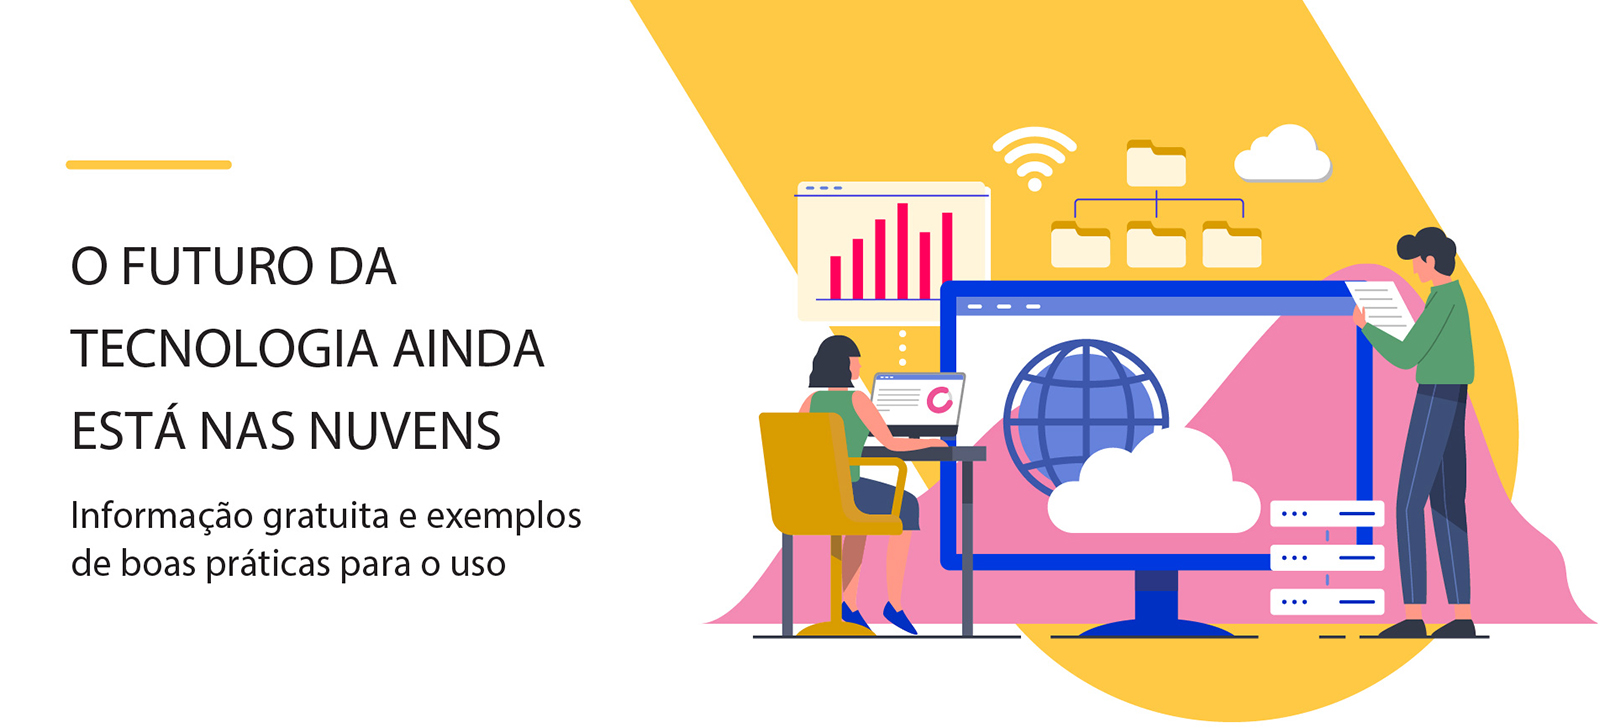
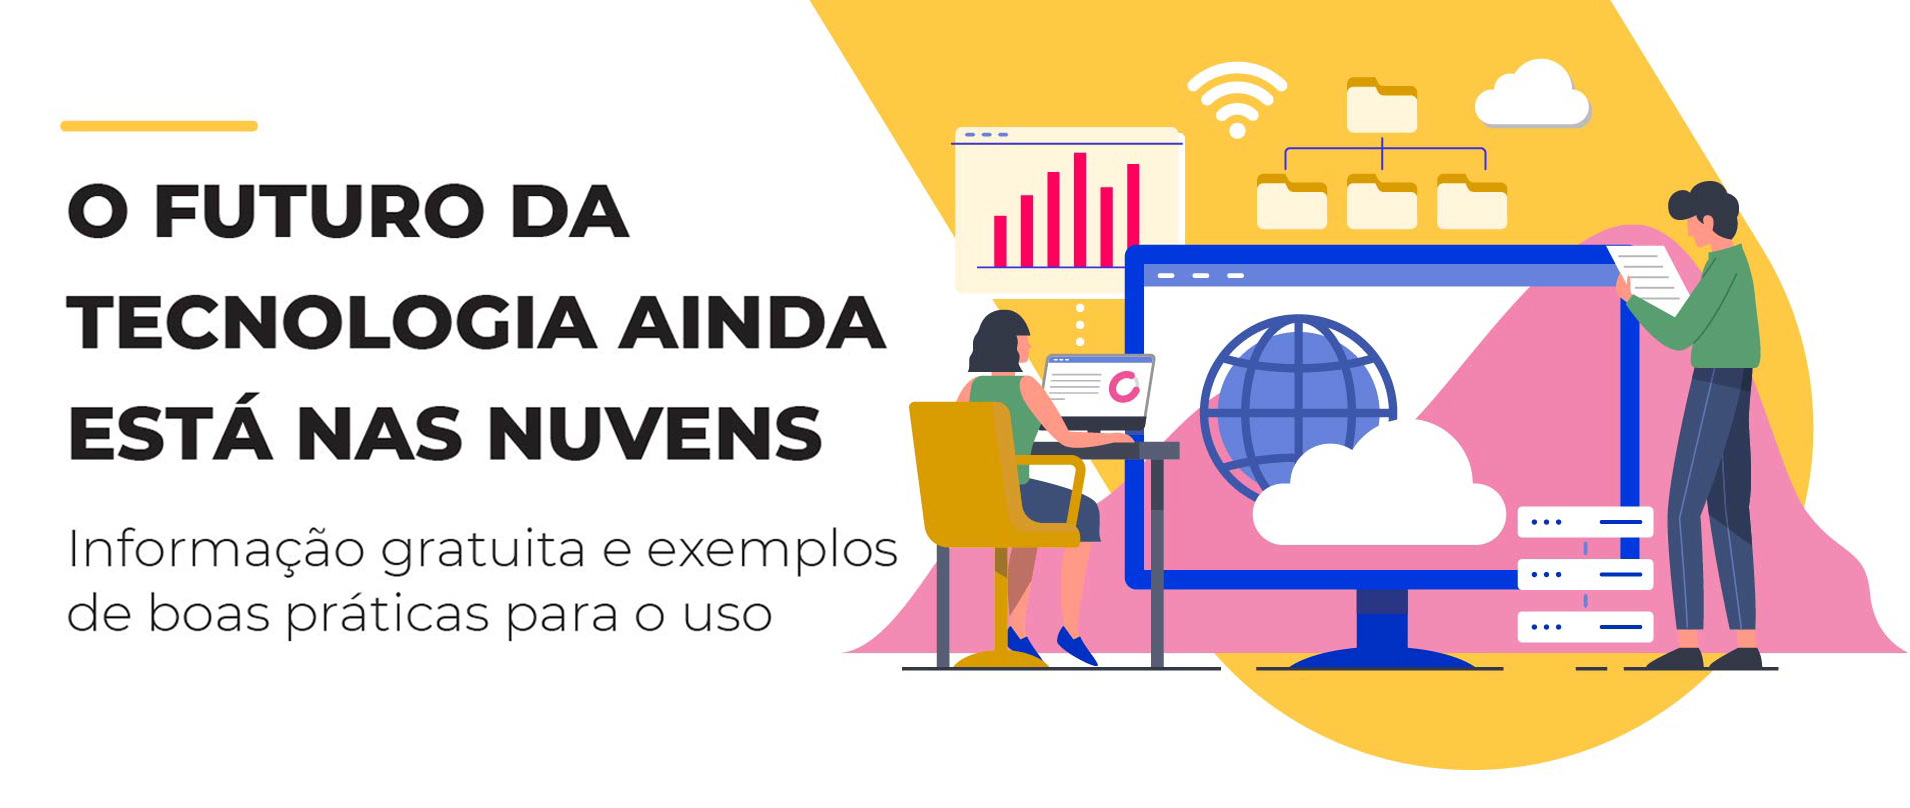
layout atualizado

diff --git a/index.html b/index.html
@@ -3,21 +3,17 @@
 <html>
 
 	<head>
-		<title>Nome do Evento</title>
+		<title>Futuro na Nuvem</title>
 		<meta charset="utf-8" />
-		<link rel="stylesheet" type="text/css" href="estilo.css" />		
+        <link rel="stylesheet" type="text/css" href="estilo.css" />	
+        <link href="https://fonts.googleapis.com/css?family=Montserrat:400,800" rel="stylesheet">	
+        
+        
+
 
     </head>
     
     <body>
-
-        <!-- <div id="cabecalho">
-            <h1 id="logo">O futuro da tecnologia ainda está <span id="logo-cor"> <br>nas nuvens</span> </h1>
-            <div id="menu">
-                                   
-                    <a href="">Home </a>
-                    <a href="">Fotos</a>                    
-            </div>-->
 
             <div id="imagem-home">
                 <img src="img/home.jpg" alt="cloud computing" width="100%">
@@ -27,7 +23,7 @@
                 
                 <br>
                 <div id="texto-direita">
-                    <h3>CLOUD</h3>
+                    <h2 id="titulo"> CLOUD </h2>
                     <br>
                     <p>Já ouviu falar disso? Com a nova era digital a </p>
                     <p>demanda de armazenamento de dados tornou-se </p>
@@ -42,12 +38,12 @@
 
                     <div id="texto-esquerda"> <div id="inner">
                     <br>
-                    <h3 id="">O EVENTO</h3>
+                    <h3 id="titulo">O EVENTO</h3>
                     <br>
-                    <p>O evento tem como objetivo trazer algumas </p>
-                    <p>discussões voltado para tecnologia com foco</p> 
-                    <p>em Cloud Computer, Segurança da Informação</p>
-                    <p>e o Espaço da Mulher na Tecnologia.</p> 
+                    <p>Vamos falar de tecnologia? Ela já está presente </p>
+                    <p>em cada parte do nosso dia, mas ainda há muito</p> 
+                    <p>o que explorar. Informação de forma simples</p>
+                    <p>e com propriedade pelos palestrantes:</p> 
 
                     <p>Com os palestrantes </p>
                     <p><b>Bianca Guerra</b> do Banco Safra </p>
@@ -57,18 +53,14 @@
                 </div>
 
 
-                    
-                    
-                    <!--<p id="cor-azul"><strong>Bianca Guerra do Banco Safra.</strong></p>
                     <br>
-                    <p id="cor-azul"><strong>Petrus Batalha, Cloud Engineer na IBM.</strong></p>
-                    <br> -->
-
+                    <p><strong>O FUTURO DA TECNOLOGIA AINDA ESTÁ NAS NUVENS</strong></p>
+                    <p>Informação gratuita e exemplos de boas práticas para o uso</p>
                     <br>
-                    <p><strong>Data 22/10/2019 Quinta Feira</strong></p>
+                    <p><strong>Quando: </strong>24 de outubro de 2019, a partir das 19h</p>
                     <br>
-                    <p><strong>Local - Em breve</strong></p>
-                    <br>
+                    <p><a href="https://www.google.com/maps/place/Faculdade+de+Tecnologia+Estadual+-+FATEC+Ipiranga/@-23.6097149,-46.6079185,15z/data=!4m5!3m4!1s0x0:0x2102d3f76afde05d!8m2!3d-23.6097149!4d-46.6079185"><strong>Onde: </strong>Faculdade de Tecnologia Estadual - FATEC Ipiranga - São Paulo </a></p>
+                    <br> 
                     <p id="cor-azul"><strong>Garanta seu ingresso</strong></p>
 
                     <div id="sympla-widget-690270" height="auto"></div> <script src="https://www.sympla.com.br/js/sympla.widget-pt.js/690270"></script>

diff --git a/estilo.css b/estilo.css
@@ -9,8 +9,14 @@ body{
     justify-content: center;
     margin: 0 auto;
     background: white;
-    font-family: 'Montserrat', sans-serif;
+    font-family: 'Montserrat', sans-serif;   
 
+ }
+ #titulo{
+     font-size: 24px;
+     border-top:  3px;
+     border-color: rgb(255, 205, 52);  
+     
  }
 
  #texto-direita{
@@ -29,6 +35,16 @@ body{
     color: rgb(61, 85, 167);
     font-size: 20px;
 }
+
+a:link, a:visited {
+    text-decoration: none;
+    color: none;
+	}
+a:hover {
+	text-decoration: none; 
+	color: rgb(73, 84, 184)
+	}
+
 
 #logo{
     color:black;
